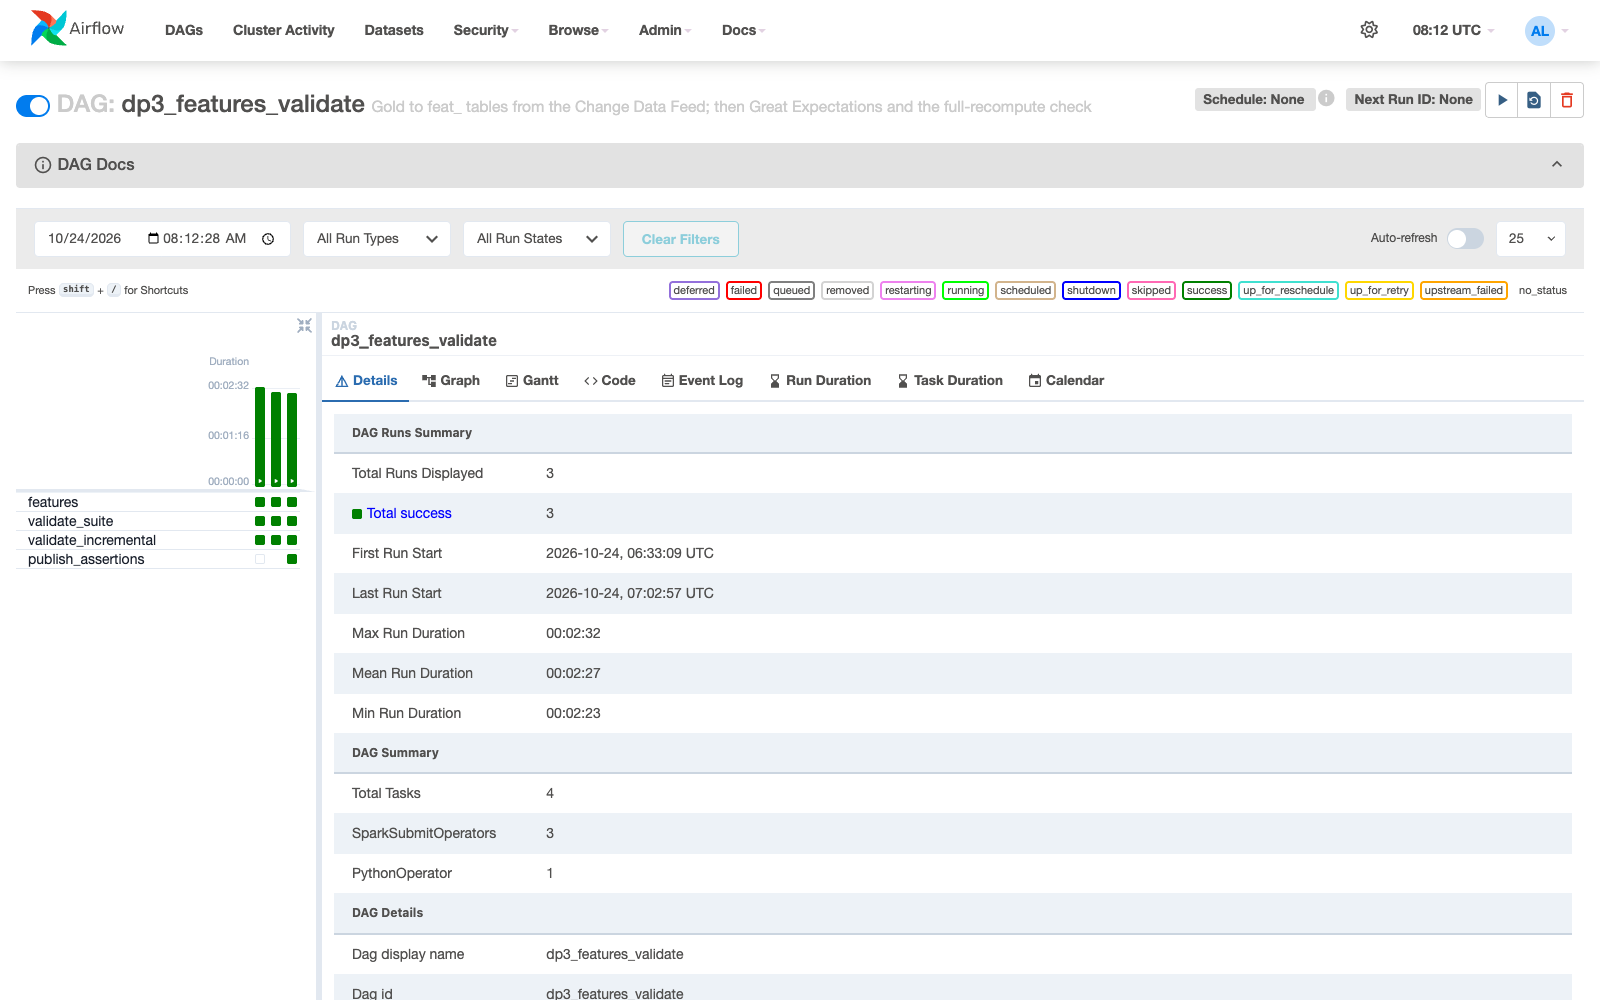
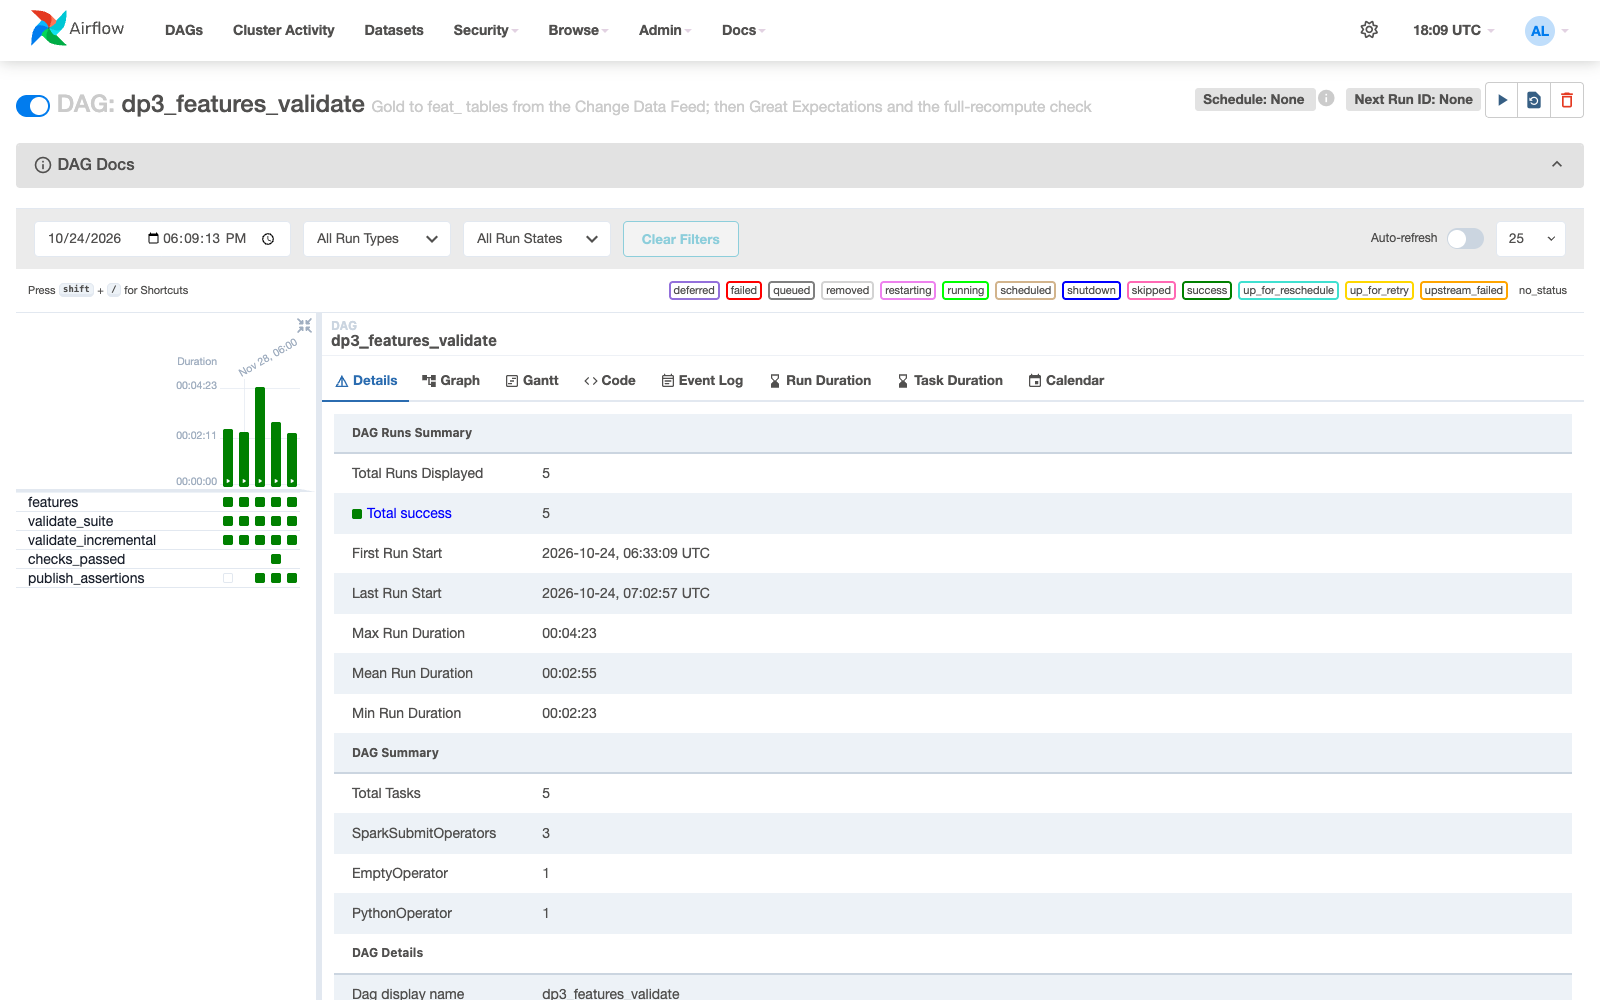
docs(airflow, datahub): the settings from connections and variables, task tables, the DP3 gate
airflow.md:
- who sees which credentials (the services get the metadata database URL and the Fernet key);
- the datahub_rest_default connection, which task uses each connection and variable, and why the
  period start is a constant and not a variable; a 2026-10-24 check of the rendered values;
- one table per DAG with every task, what it does and the pipelines.md section that explains it;
- why DP3 ends in checks_passed; the DP1 suite's after-period rule stated exactly;
- the run of DP2 and DP3 for 2024-11-30 after the fixes: both green, 62 of 62 and 31 of 31,
  0 differences from a full recompute, the warehouse written through dwh_postgres;
- the one-day trial time in the full-scale projection, with its source.

datahub.md: silver's 6 inputs, the suite's inputs, and the counts after that run (17 tasks, 6
bronze tables upstream of the warehouse). New screenshots: variables, the DP3 grid and graph, the
DP3 pipeline and the silver lineage in DataHub.

diff --git a/docs/airflow.md b/docs/airflow.md
@@ -26,8 +26,8 @@ The services now run `lastleg/airflow:2.10.5` from the multi-stage `infra/airflo
 describes the first, naive build, kept as the size baseline.
 
 The naive image is built on `apache/airflow:2.10.5-python3.10` and is 3.23 GB. This first version is
-deliberately naive: everything is copied and installed in one image and nothing is removed. A
-multi-stage rewrite comes later.
+deliberately naive: everything is copied and installed in one image and nothing is removed. The
+multi-stage rewrite above replaced it.
 
 | Part | Why |
 |---|---|
@@ -44,10 +44,12 @@ so the executors on `spark-worker` can connect back to the driver.
 ## Connections, variables and pool
 
 **Who sees the credentials.** Only `airflow-init` reads `.env` (`env_file`). `airflow/setup_airflow.py`
-stores the credentials as Airflow connections, encrypted with `AIRFLOW_FERNET_KEY`, in the `airflow`
-database. The webserver, the scheduler and the DAG code see no password. A DAG reads one through a
-connection id, for example `{{ conn.oms_postgres.password }}` in a templated field. Running the init
-again updates the same entries.
+stores the source credentials as Airflow connections, encrypted with `AIRFLOW_FERNET_KEY`, in the
+`airflow` database. The webserver and the scheduler get two values from Compose instead: the
+metadata database URL (`AIRFLOW__DATABASE__SQL_ALCHEMY_CONN`), which uses the same Postgres login,
+and the Fernet key. The DAG code holds no password: a DAG reads one through a connection id, for
+example `{{ conn.oms_postgres.password }}` in a templated field. Running the init again updates the
+same entries.
 
 | Connection | Type | Points to |
 |---|---|---|
@@ -55,12 +57,23 @@ again updates the same entries.
 | `dwh_postgres` | postgres | `postgres:5432/dwh`, the warehouse |
 | `lakehouse_s3` | aws | SeaweedFS S3, `http://seaweedfs:8333` (`app-exports`, `lakehouse`) |
 | `spark_lakehouse` | spark | `spark://spark-master:7077`, client mode |
+| `datahub_rest_default` | datahub-rest | `http://datahub-gms:8080`, where the DataHub plugin and `publish_assertions` send metadata |
 
-| Variable | Value |
-|---|---|
-| `jobs_dir` | `/opt/jobs` |
-| `lakehouse_bucket`, `exports_bucket` | `lakehouse`, `app-exports` |
-| `period_start`, `period_end` | `2024-06-01`, `2024-11-30` |
+Every Spark task gets its hosts and logins from these connections, through templated `env_vars`
+in `airflow/dags/lakehouse_tasks.py`: `OMS_JDBC_URL` and the login from `oms_postgres`, the S3 keys
+from `lakehouse_s3`. The `warehouse` task writes to `dwh` with `DWH_JDBC_URL` and the login of
+`dwh_postgres`.
+
+| Variable | Value | Used by |
+|---|---|---|
+| `jobs_dir` | `/opt/jobs` | every Spark task: the path of the job file |
+| `lakehouse_bucket` | `lakehouse` | every Spark task (`LAKEHOUSE_BUCKET`, read by `jobs/common.py`), and `publish_assertions`, which reads the results from it |
+| `exports_bucket` | `app-exports` | every Spark task (`EXPORTS_BUCKET`); DP1 reads the export files from it |
+| `period_end` | `2024-11-30` | the three validate tasks (`--period-end`) |
+
+The start of the period, 2024-06-01, is not a variable: it is each DAG's `start_date`, which
+Airflow reads when it parses the DAG file, before any template is rendered. It is
+`PERIOD_START` in `lakehouse_tasks.py`.
 
 **Pool.** `spark` has 1 slot, so only one Spark application runs at a time. The cluster has one
 4-core worker, and two drivers would starve each other.
@@ -79,6 +92,22 @@ $ docker compose exec airflow-scheduler airflow pools list
 default_pool  128    spark  1  one Spark application at a time (one 4-core worker)
 ```
 
+### Checks after the review fixes (2026-10-24)
+
+`period_start` was removed: nothing read it, and the DAGs' start date cannot come from a variable
+(above). The variables and connections the tasks use, and the values the `warehouse` task gets
+from them (`airflow tasks render`, with the logins and passwords left out):
+
+```text
+$ docker compose exec airflow-scheduler airflow variables list
+jobs_dir  lakehouse_bucket  exports_bucket  period_end
+$ docker compose exec airflow-scheduler airflow tasks render dp2_transform_validate warehouse 2024-11-30T12:00:00+00:00
+'OMS_JDBC_URL': 'jdbc:postgresql://postgres:5432/oms'
+'LAKEHOUSE_BUCKET': 'lakehouse'
+'EXPORTS_BUCKET': 'app-exports'
+'DWH_JDBC_URL': 'jdbc:postgresql://postgres:5432/dwh'
+```
+
 The installed versions were checked inside the image:
 
 - Airflow 2.10.5, with the Spark provider and the DataHub plugin importable.
@@ -87,7 +116,8 @@ The installed versions were checked inside the image:
   (from `SPARK_HOME`).
 
 The UI shows the same entries (Admin → Connections, Variables, Pools). The connection list has no
-login or password column, and the variables hold no secret:
+login or password column, and the variables hold no secret. The variables page is from after the
+review fixes:
 
 ![Airflow connections](images/airflow/connections.png)
 
@@ -101,8 +131,10 @@ The DAGs build their Spark tasks with one factory, `airflow/dags/lakehouse_tasks
 
 - **How it submits:** `SparkSubmitOperator` on connection `spark_lakehouse`, in pool `spark`, with
   the job path from variable `jobs_dir`.
-- **Credentials:** they come from connections in templated `env_vars`
-  (`{{ conn.oms_postgres.password }}`, `{{ conn.lakehouse_s3.password }}`).
+- **Credentials, hosts and buckets:** they come from connections and variables in templated
+  `env_vars` (`{{ conn.oms_postgres.password }}`, `{{ conn.lakehouse_s3.password }}`,
+  `{{ var.value.lakehouse_bucket }}`). A task can add or replace entries (`env=`), as the
+  `warehouse` task does for `dwh_postgres`.
 - **Spark settings:** `spark.driver.host` is set to `airflow-scheduler`.
 
 The DAGs run from 2024-06-01 to 2024-12-01. The extra last day loads the parcels ordered on
@@ -117,9 +149,17 @@ ingest_bronze (jobs/dp1_ingest.py --until {{ ds }})  >>  validate_bronze (jobs/v
 validate_bronze  >>  publish_assertions (the suite's results to DataHub, trigger rule all_done)
 ```
 
+| Task | What it does | Details |
+|---|---|---|
+| `ingest_bronze` | copies the `oms` rows changed since bronze's watermark, and the export dates not loaded yet, into the `raw_` Delta tables | [DP1: ingest into bronze](pipelines.md#dp1-ingest-into-bronze-jobsdp1_ingestpy) |
+| `validate_bronze` | Great Expectations on day `ds` of bronze (73 expectations): the sources' promises, dirty values included | [DP1: validate bronze](pipelines.md#dp1-validate-bronze-jobsvalidatepy---suite-dp1) |
+| `publish_assertions` | sends the suite's results to DataHub as assertions, whether the suite passed or failed | [datahub.md](datahub.md) |
+| `trigger_dp2` | starts `dp2_transform_validate` for the same day, only after `validate_bronze` passed | |
+
 `validate_bronze` fails the run when any expectation fails, so nothing after it runs on bad
-bronze. For a day after `period_end`, the suite skips the slices that are empty then: pings, the
-hourly activity, and the orders placed that day.
+bronze. For a day after `period_end`, the DP1 suite skips the pings slice, which has no rows then
+(45 of its 73 expectations remain). The DP2 and DP3 suites skip their ping, activity, fact and
+hub-hour slices in the same way.
 
 **Check on the dev slice (2026-10-23).** Bronze's rows from local 2024-11-29 on were deleted with a
 Delta `DELETE`, so the DAG had real work to do. (The deleted rows stay in the table's history, and
@@ -153,6 +193,17 @@ validate stage: >> [validate_suite (jobs/validate.py --suite dp2 --ds {{ ds }} .
 validate_suite >> publish_assertions (the suite's results to DataHub, trigger rule all_done)
 ```
 
+| Task | What it does | Details |
+|---|---|---|
+| `silver` | cleans the new bronze rows into the `stg_` tables: merges `oms` changes, dedups the re-uploaded pings, and compacts each new ping date | [DP2: silver](pipelines.md#dp2-clean-bronze-into-silver-jobsdp2_silverpy) |
+| `gold_dims` | builds the dimensions, and merges the courier changes into the SCD2 `dim_courier` | [DP2: gold dimensions](pipelines.md#dp2-gold-dimensions-jobsdp2_gold_dimspy) |
+| `gold_facts` | merges `fact_delivery` and adds the new hours of `fact_courier_activity_hourly`, with the NULL-isolation join for `late_trip_min` | [DP2: gold facts](pipelines.md#dp2-gold-facts-jobsdp2_gold_factspy) |
+| `warehouse` | loads the star schema into `dwh` staging, then swaps it in one transaction | [DP2: warehouse](pipelines.md#dp2-load-the-warehouse-jobsdp2_warehousepy) |
+| `validate_suite` | Great Expectations on day `ds` of silver and gold (62 expectations) | [DP2: validate](pipelines.md#dp2-validate-silver-and-gold-jobsvalidatepy---suite-dp2) |
+| `validate_scd2` | checks the SCD2 invariants of `dim_courier` against the change audit | [`dim_courier`, SCD type 2](pipelines.md#dim_courier-scd-type-2) |
+| `publish_assertions` | sends the suite's results to DataHub as assertions, pass or fail | [datahub.md](datahub.md) |
+| `trigger_dp3` | starts `dp3_features_validate` for the same day, only after both checks passed | |
+
 **Check on the dev slice (2026-10-23).** A run of `dp1_ingest_validate` for 2024-11-30 passed its
 three tasks and triggered `dp2_transform_validate` for the same day. All six DP2 tasks succeeded
 in 3.5 minutes:
@@ -183,15 +234,30 @@ checks passed.
 ```text
 ingest stage:   features (jobs/dp3_features.py --incremental: only what the facts' Change Data Feed changed)
 validate stage: >> [validate_suite (jobs/validate.py --suite dp3 --ds {{ ds }} ...), validate_incremental (jobs/check_cdf.py)]
+                >> checks_passed
 validate_suite >> publish_assertions (the suite's results to DataHub, trigger rule all_done)
 ```
+
+| Task | What it does | Details |
+|---|---|---|
+| `features` | recomputes and merges only the feature rows whose couriers, hubs and zones the facts' Change Data Feed touched | [DP3: features](pipelines.md#dp3-offline-feature-tables-jobsdp3_featurespy), [novel_cdf_incremental.md](novel_cdf_incremental.md) |
+| `validate_suite` | Great Expectations on day `ds` of the three `feat_` tables (31 expectations) | [DP3: validate](pipelines.md#dp3-validate-the-feature-tables-jobsvalidatepy---suite-dp3) |
+| `validate_incremental` | compares every incremental feature table with a full recompute | [novel_cdf_incremental.md](novel_cdf_incremental.md) |
+| `publish_assertions` | sends the suite's results to DataHub as assertions, pass or fail | [datahub.md](datahub.md) |
+| `checks_passed` | succeeds only when both checks passed, so the run's state is the checks' result | |
+
+**Why `checks_passed`.** Airflow sets a run's state from its last tasks. DP1 and DP2 end in a
+trigger task that runs only when their checks passed, so a failed check fails the run. DP3 has no
+next DAG, and `publish_assertions` succeeds even after a failed suite, so a failed suite used to
+leave the run green. `checks_passed` (an `EmptyOperator`) runs only when both checks passed: a
+failed check now marks it `upstream_failed`, and the run fails.
 
 `validate_incremental` compares every incrementally maintained feature table with a full
 recompute, so each run also checks novel idea 2 ([novel_cdf_incremental.md](novel_cdf_incremental.md)).
 
-![DP3 grid](images/airflow/dp3_features_validate-grid.png)
+![DP3 grid: the runs so far; checks_passed has run since the review fixes](images/airflow/dp3_features_validate-grid.png)
 
-![DP3 graph, run 2024-12-01](images/airflow/dp3_features_validate-graph.png)
+![DP3 graph: features, the two checks, then checks_passed and publish_assertions](images/airflow/dp3_features_validate-graph.png)
 
 ### The whole chain
 
@@ -251,12 +317,39 @@ that the ping part of the cost grows with the rows:
 | Step | Measured at full scale | One full-scale day (projected) |
 |---|---|---:|
 | ping dedup (window) | 73.3 s for 7 days | about 10 s |
-| pings LEFT JOIN trips, NULL isolation | 1,148 s for 183 days; one-day trials 163 to 322 s | 2 to 5 min: the join shuffles all 80.8 million orders every day, which the one-day trials measured as most of their time; the pings add about 6 s |
+| pings LEFT JOIN trips, NULL isolation | 1,148 s for 183 days; 294 s in the one-day trial ([spark_optimization.md](spark_optimization.md#the-choice-for-the-pipeline)) | 2 to 5 min: the join shuffles all 80.8 million orders every day, which is most of the one-day trial's time; the pings add about 6 s |
 | compaction and Z-order of the new pings | 443 s for 7 days | about 63 s |
 
 A daily DP2 at full scale therefore adds minutes, not hours, to the slice's 4.4 minutes. A full
 rebuild of 183 days would take hours: about 19 minutes for the join alone, and about 3 hours for
 compacting the whole history. That is what the 100 GB runs measured.
+
+### Run after the review fixes (2026-10-24)
+
+The review fixes changed how the tasks get their settings (the buckets and both JDBC URLs from
+Airflow), DP2's lineage lists, and DP3's last task (`checks_passed`). DP2 was triggered for
+2024-11-30 (12:00 UTC), and it triggered DP3; DP1 was not run, for the reason above.
+
+```bash
+docker compose exec airflow-scheduler airflow dags trigger dp2_transform_validate -e 2024-11-30T12:00:00+00:00 -r manual__review_fixes_2024-11-30
+```
+
+| DAG | Task | Time | Result |
+|---|---|---:|---|
+| `dp2_transform_validate` (green) | `silver` | 29.5 s | `stg_orders` 808,000 rows; no new ping or scan export date |
+| | `gold_dims` | 34.7 s | `dim_zone` 1,497 rows; `dim_courier`: no new version after change 1093 |
+| | `gold_facts` | 47.3 s | `fact_delivery` 808,000 rows; no new ping date |
+| | `warehouse` | 54.9 s | written through `dwh_postgres`: `fact_delivery` 408,000, `obt_delivery` 168,000, `dim_courier` 799 |
+| | `validate_suite` | 72.7 s | 62 of 62 |
+| | `validate_scd2` | 31.3 s | 799 versions from 1,093 audit rows; 0 violations |
+| | `publish_assertions` | 1.8 s | 62 assertions sent to DataHub, 0 failed |
+| `dp3_features_validate` (green) | `features` | 27.1 s | the Change Data Feed listed 0 changed fact rows, so no feature row changed |
+| | `validate_suite` | 39.5 s | 31 of 31 |
+| | `validate_incremental` | 101.0 s | 0 differences from a full recompute: 33,836, 175,760 and 275,448 rows |
+| | `checks_passed` | 0 s | both checks passed |
+| | `publish_assertions` | 1.2 s | 31 assertions sent to DataHub, 0 failed |
+
+DataHub's lineage after this run is in [datahub.md](datahub.md#checks-after-the-lineage-fix-2026-10-24).
 
 ### Failure drill: a corrupted batch blocks everything downstream
 

diff --git a/docs/datahub.md b/docs/datahub.md
@@ -117,11 +117,11 @@ recipes ingested:
 |---|---|---|---|
 | `dp1_ingest_validate` | `ingest_bronze` | 5 `oms` tables, 2 app exports | 7 bronze tables |
 | | `validate_bronze` | 7 bronze tables | |
-| `dp2_transform_validate` | `silver` | 7 bronze tables | 6 silver tables |
+| `dp2_transform_validate` | `silver` | 6 bronze tables (not `raw_couriers`: `dim_courier` is built from the courier changes) | 6 silver tables |
 | | `gold_dims` | `stg_hubs`, `stg_customers`, `stg_courier_changes` | 5 dimensions |
 | | `gold_facts` | `stg_orders`, `stg_courier_pings`, `dim_courier`, `dim_hub` | 2 facts |
 | | `warehouse` | 5 dimensions, `fact_delivery` | 7 `dwh` tables |
-| | `validate_suite`, `validate_scd2` | the tables they check | |
+| | `validate_suite`, `validate_scd2` | the tables they check (the suite: 3 silver tables, 5 dimensions, 2 facts) | |
 | `dp3_features_validate` | `features` | 2 facts, 4 dimensions | 3 `feat_` tables |
 | | `validate_suite`, `validate_incremental` | the tables they check | |
 
@@ -141,13 +141,28 @@ green. Then a GraphQL query on GMS returned:
   the sources: 6 gold, 5 silver, 7 bronze, the 5 `oms` tables and the 2 app exports. The silver
   table that does not appear is `stg_parcel_scans`, because no gold job reads it.
 
+### Checks after the lineage fix (2026-10-24)
+
+The `silver` task listed all 7 bronze tables as inputs, but `jobs/dp2_silver.py` reads 6: it never
+reads `raw_couriers`. The DP2 suite also listed silver tables it does not check. Both lists now
+match the code, and the DP3 DAG gained its `checks_passed` task ([airflow.md](airflow.md#dp3-dp3_features_validate)).
+After the DP2 and DP3 run for 2024-11-30 (12:00 UTC), the same GraphQL queries returned:
+
+- 3 DataFlows and 17 DataJobs: the 16 tasks above and `checks_passed`.
+- `silver`: 6 inputs and 6 outputs. `validate_suite` of DP2: 10 inputs.
+- The upstream lineage of `dwh.public.fact_delivery`: 6 gold, 5 silver, 6 bronze, the 5 `oms`
+  tables and the 2 app exports. `raw_couriers` is no longer upstream of the warehouse.
+- The two `publish_assertions` tasks sent 62 and 31 assertions, 0 failed.
+
+The DP3 pipeline and the `silver` lineage below were captured after this run.
+
 Each pipeline in the UI, with its tasks:
 
 ![DP1 pipeline](images/datahub/pipeline-dp1.png)
 
 ![DP2 pipeline](images/datahub/pipeline-dp2.png)
 
-![DP3 pipeline](images/datahub/pipeline-dp3.png)
+![DP3 pipeline: features, the two checks, publish_assertions and checks_passed](images/datahub/pipeline-dp3.png)
 
 The lineage of the tasks that write each zone. DP1's `ingest_bronze` reads the `oms` tables and the
 two app exports and writes bronze:
@@ -156,7 +171,7 @@ two app exports and writes bronze:
 
 DP2's `silver`, `gold_facts` and `warehouse`:
 
-![DP2 silver lineage](images/datahub/task-dp2-silver.png)
+![DP2 silver lineage: 6 bronze tables in, 6 silver tables out](images/datahub/task-dp2-silver.png)
 
 ![DP2 gold_facts lineage](images/datahub/task-dp2-gold-facts.png)
 
